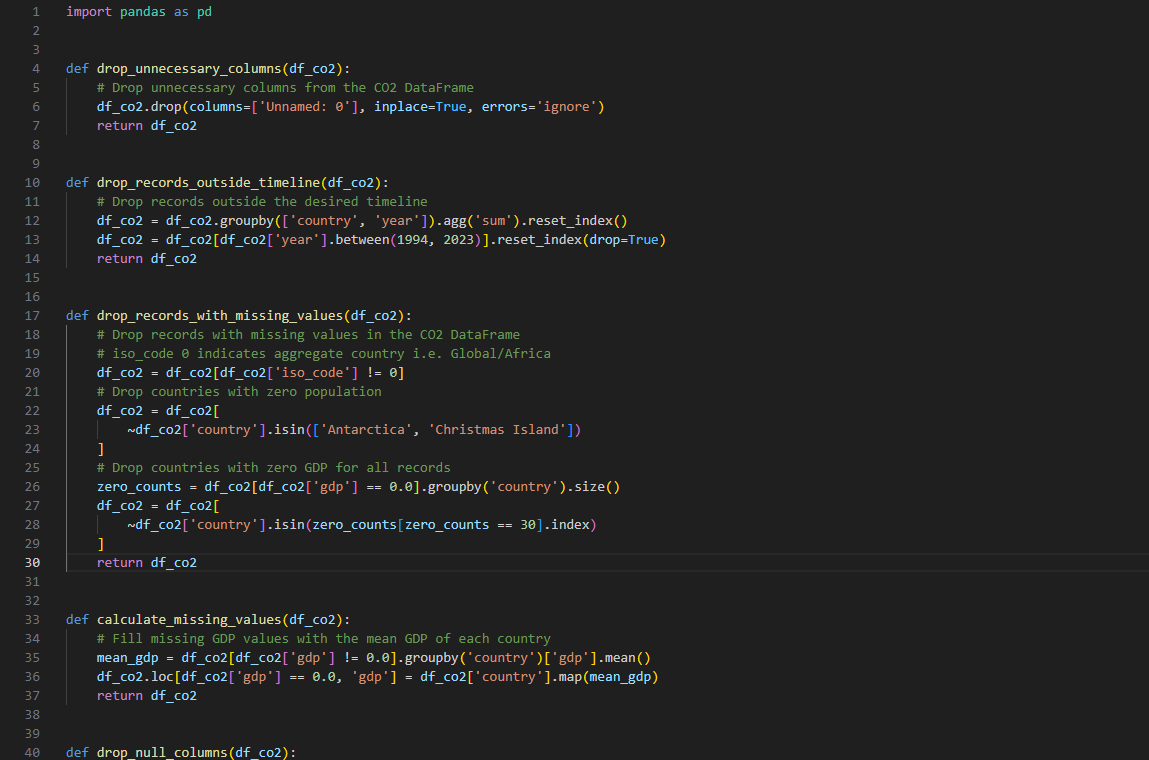
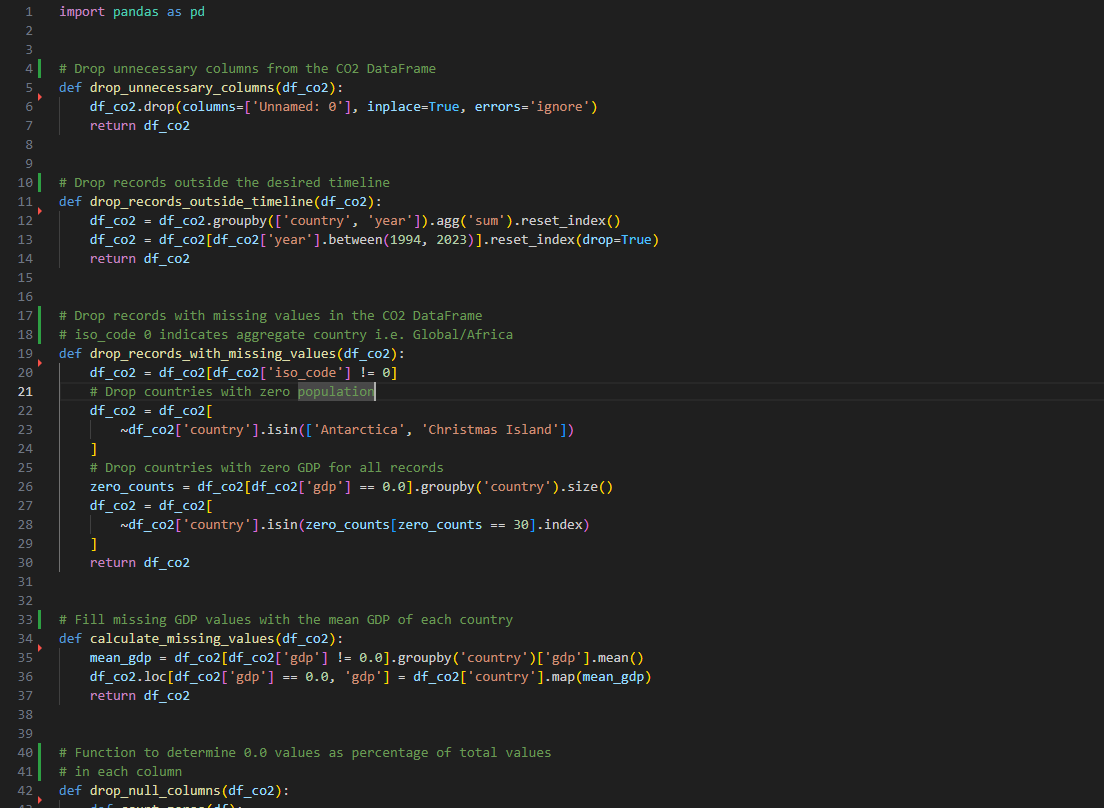
Completed code comments

diff --git a/src/transform/clean_co2.py b/src/transform/clean_co2.py
@@ -1,22 +1,22 @@
 import pandas as pd
 
 
+# Drop unnecessary columns from the CO2 DataFrame
 def drop_unnecessary_columns(df_co2):
-    # Drop unnecessary columns from the CO2 DataFrame
     df_co2.drop(columns=['Unnamed: 0'], inplace=True, errors='ignore')
     return df_co2
 
 
+# Drop records outside the desired timeline
 def drop_records_outside_timeline(df_co2):
-    # Drop records outside the desired timeline
     df_co2 = df_co2.groupby(['country', 'year']).agg('sum').reset_index()
     df_co2 = df_co2[df_co2['year'].between(1994, 2023)].reset_index(drop=True)
     return df_co2
 
 
+# Drop records with missing values in the CO2 DataFrame
+# iso_code 0 indicates aggregate country i.e. Global/Africa
 def drop_records_with_missing_values(df_co2):
-    # Drop records with missing values in the CO2 DataFrame
-    # iso_code 0 indicates aggregate country i.e. Global/Africa
     df_co2 = df_co2[df_co2['iso_code'] != 0]
     # Drop countries with zero population
     df_co2 = df_co2[
@@ -30,16 +30,16 @@ def drop_records_with_missing_values(df_co2):
     return df_co2
 
 
+# Fill missing GDP values with the mean GDP of each country
 def calculate_missing_values(df_co2):
-    # Fill missing GDP values with the mean GDP of each country
     mean_gdp = df_co2[df_co2['gdp'] != 0.0].groupby('country')['gdp'].mean()
     df_co2.loc[df_co2['gdp'] == 0.0, 'gdp'] = df_co2['country'].map(mean_gdp)
     return df_co2
 
 
+# Function to determine 0.0 values as percentage of total values
+# in each column
 def drop_null_columns(df_co2):
-    # Function to determine 0.0 values as percentage of total values
-    # in each column
     def count_zeros(df):
         return (df == 0).mean() * 100
     # Store columns with no null values
@@ -48,17 +48,18 @@ def drop_null_columns(df_co2):
     return df_co2
 
 
+# Convert columns to appropriate data types
 def convert_columns_types(df_co2):
-    # Convert columns to appropriate data types
     df_co2['population'] = df_co2['population'].astype(int)
     df_co2['gdp'] = df_co2['gdp'].astype(int)
     return df_co2
 
 
+# Add additional column that will check the country and select a suitable
+# region for association
+# Define region mapping for all 255 countries in the current dataframe
+# Copilot used to generate dictionary for countries to region
 def enrich_data(df_co2):
-    # Add additional column that will check the country and select a suitable
-    # region for association
-    # Define region mapping for all 255 countries in the current dataframe
     region_map = {
         # Africa
         'Algeria': 'Africa',
@@ -334,9 +335,11 @@ def enrich_data(df_co2):
         'Christmas Island': 'Other'
     }
 
+    # Function to assign region based on country
     def assign_region(country):
         return region_map.get(country, 'Other')
 
+    # Assign region to each row in the DataFrame through .apply()
     df_co2['region'] = df_co2['country'].apply(assign_region)
     return df_co2
 

diff --git a/src/transform/transform.py b/src/transform/transform.py
@@ -3,30 +3,41 @@ from src.transform.clean_energy import clean_energy
 import pandas as pd
 
 
+# Columns to retain after transformation
+# This function is used to ensure that only the necessary columns are kept
+# in the final DataFrame
 def retain_columns(df):
     df = df[
         [
-            'country', 'year', 'iso_code', 'population', 'gdp', 'co2',
-            'co2_per_capita', 'cumulative_co2', 'cumulative_oil_co2',
-            'oil_co2', 'oil_co2_per_capita', 'region',
-            'coal_cons_per_capita', 'coal_consumption', 'energy_per_capita'
+            "country", "year", "iso_code", "population", "gdp", "co2",
+            "co2_per_capita", "cumulative_co2", "cumulative_oil_co2",
+            "oil_co2", "oil_co2_per_capita", "region",
+            "coal_cons_per_capita", "coal_consumption", "energy_per_capita"
         ]
     ]
     return df
 
 
+# Main transformation function that passes DataFrames through
+# cleaning functions
 def transform_data(df_co2, df_energy):
+    # Cleans the data from the CO2 DataFrame
     df_co2_cleaned = clean_co2(df_co2)
+    # Cleans the data from the Energy DataFrame
     df_energy_cleaned = clean_energy(df_energy)
+    # Combine the cleaned DataFrames on the columns "country" and "year"
     df_combined = pd.merge(
         df_co2_cleaned,
         df_energy_cleaned,
-        on=['country', 'year'],
-        how='inner'
+        on=["country", "year"],
+        how="inner"
     )
+    # Retain only the necessary columns
     try:
         df_combined = retain_columns(df_combined)
     except Exception as e:
         print(f"Error retaining columns: {e}")
-    df_combined.to_csv('data/transform/transformed_data.csv')
+    # Save a copy of the transformed DataFrame
+    # and return for loading to database
+    df_combined.to_csv("data/transform/transformed_data.csv")
     return df_combined.reset_index(drop=True)

diff --git a/scripts/run_etl.py b/scripts/run_etl.py
@@ -10,6 +10,7 @@ from src.load.load_database import get_engine
 def main():
     try:
         # Set up environment
+        # Heavily inspired by Ed Wright's walkthrough to setup environment
         setup_env(sys.argv)
         env = os.getenv("ENV", "unknown")
         print(f"Environment setup complete: {env}\n")
@@ -19,25 +20,35 @@ def main():
 
         # Extract
         print("Beginning extraction")
+        # Retrieve CO2 and Energy data
+        # extract_data() returns a list of two DataFrames
         df_co2, df_energy = extract_data()
         print("Extraction completed\n")
 
         # Transform
         print("Beginning transformation")
+        # Pass both DataFrames into main transformation function
+        # transform_data() returns a single DataFrame
         df_transformed = transform_data(df_co2, df_energy)
         print("Transformation completed\n")
 
         # Load
         print("Beginning loading")
+        # Pass transformed DataFrame to loading function
+        # get_engine() returns connection details from the environment
         load_dataframe_to_db(df_transformed, get_engine())
+        print("Loading completed\n")
 
-        print(df_transformed.head())  # For demonstration purposes
+        # Print head of completed DataFrame as demonstration
+        print(df_transformed.head())
 
+    # Catch any exceptions that occur during the ETL process
+    # Print error message to help with debugging
     except Exception as e:
         print("Error: ETL Pipeline Failed")
         print(f"Error: {e}")
         sys.exit(1)
 
 
-if __name__ == '__main__':
+if __name__ == "__main__":
     main()

diff --git a/config/env_config.py b/config/env_config.py
@@ -1,29 +1,39 @@
 import os
 from dotenv import load_dotenv
 
+# List of accepted environment variables
 ENVS = ["dev", "test", "prod"]
 
 
+# Function to set up the environment
+# Heavily inspired by Ed Wright's walkthrough to setup environment
 def setup_env(argv):
+    # Confirms valid environment is provided
     if len(argv) != 2 or argv[1] not in ENVS:
         raise ValueError(
             "Please provide an environment: " f"{ENVS}. E.g. run_etl dev"
         )
 
+    # Set the environment variable from the command line argument
     env = argv[1]
 
+    # Clear previous environment variables and set new environment
     clear_previous_environment()
     os.environ["ENV"] = env
 
+    # Redundant code as only accepted env variable is 'dev'
     env_file = ".env" if env == "prod" else f".env.{env}"
 
+    # Raise an error if the environment file does not exist
     if not os.path.exists(env_file):
         raise FileNotFoundError(f"Environment file '{env_file}' not found")
 
+    # Print statement to confirm environment setup successful
     print(f"Loading environment variables from: {env_file}")
     load_dotenv(env_file, override=True)
 
 
+# Function to remove all previously setup environment variables
 def clear_previous_environment():
     keys_to_clear = [
         "SOURCE_DB_NAME",

diff --git a/src/extract/extract_request.py b/src/extract/extract_request.py
@@ -4,13 +4,13 @@ from src.extract.read_source import retrieve_urls
 
 
 def extract_text():
-    # Retrieve list of urls for data sources
+    # Retrieve list of urls for data sources and store in list
     urls = retrieve_urls()
     extract_list = []
 
     # Iterate through list and store each requests.get.text in data/extract
     for i in range(len(urls)):
-        # CHECK IF DATA ALREADY DOWNLOADED AND SKIP FILE SAVING IS EXISTS
+        # Check if data already downloaded and skip file saving if exists
         file_exists = os.path.exists(f"data/extract/data{i}.csv")
         # TESTING WHEN USING EXISTING FILES WILL NOT COVER LINES 19-22
         # TESTING RESULT WITH EXISTING FILES: 76%
@@ -24,4 +24,5 @@ def extract_text():
             with open(f"data/raw/data{i}.csv", "r") as file:
                 data = file.read()
                 extract_list.append(data)
+    # Return list of raw text to be used in transform phase
     return extract_list

diff --git a/src/utils/db_utils.py b/src/utils/db_utils.py
@@ -1,6 +1,9 @@
 from sqlalchemy import create_engine
 
 
+# Heavily inspired by Ed Wright's walkthrough to setup environment variables
+# Function to create a database engine
+# Includes the requirement to save to the de_2506_a schema
 def create_db_engine(connection_details):
     engine = create_engine(
         f"postgresql+psycopg://{connection_details['user']}"
@@ -11,6 +14,7 @@ def create_db_engine(connection_details):
     return engine
 
 
+# Collate the connection details for the database
 def get_connection_details(connection_details):
     engine = create_db_engine(connection_details)
     conn = engine.connect()

diff --git a/config/db_config.py b/config/db_config.py
@@ -5,6 +5,8 @@ class DatabaseConfigError(Exception):
     pass
 
 
+# Heavily inspired by Ed Wright's walkthrough to setup environment
+# Function to retrieve database configuration
 def load_database_config():
     config = {
         "source_database": {
@@ -28,6 +30,7 @@ def load_database_config():
     return config
 
 
+# Function to validate database configuration
 def validate_database_config(config):
     for db_key, db_value in config.items():
         for key, value in db_value.items():

diff --git a/src/load/load_database.py b/src/load/load_database.py
@@ -8,6 +8,7 @@ def get_engine():
     try:
         # Load environment variables from .env.dev
         connection_details = load_database_config()['target_database']
+        # Store and return connection details for database
         conn = get_connection_details(connection_details)
         return conn
     except Exception as e:
